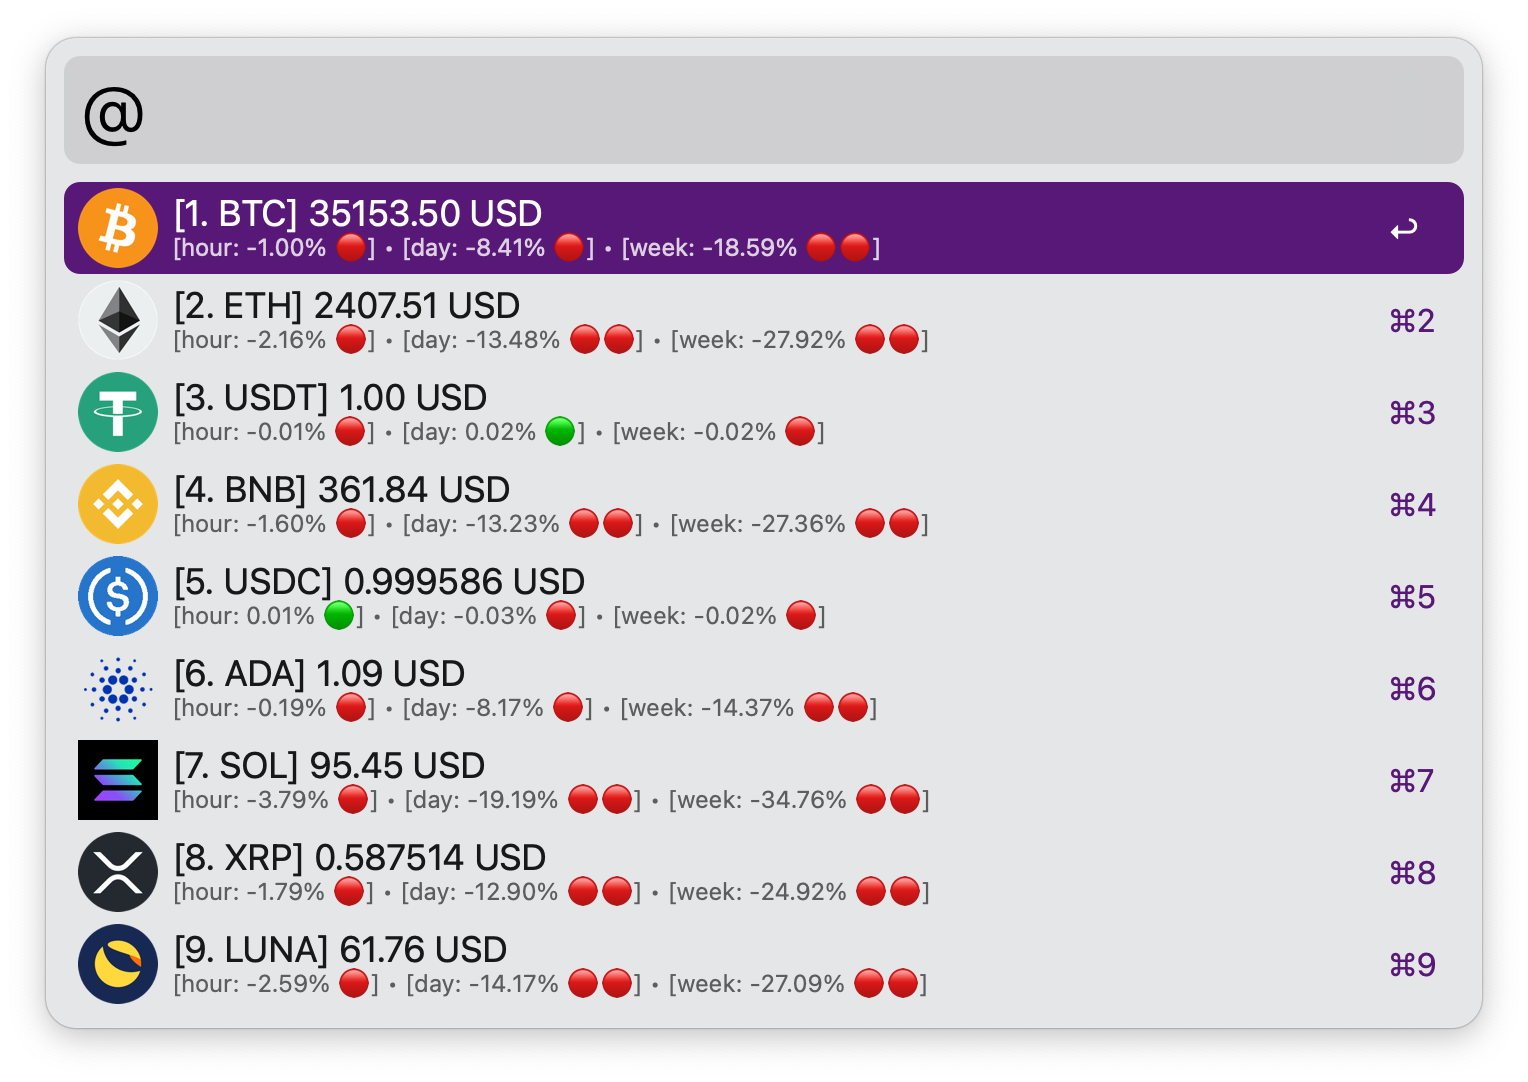
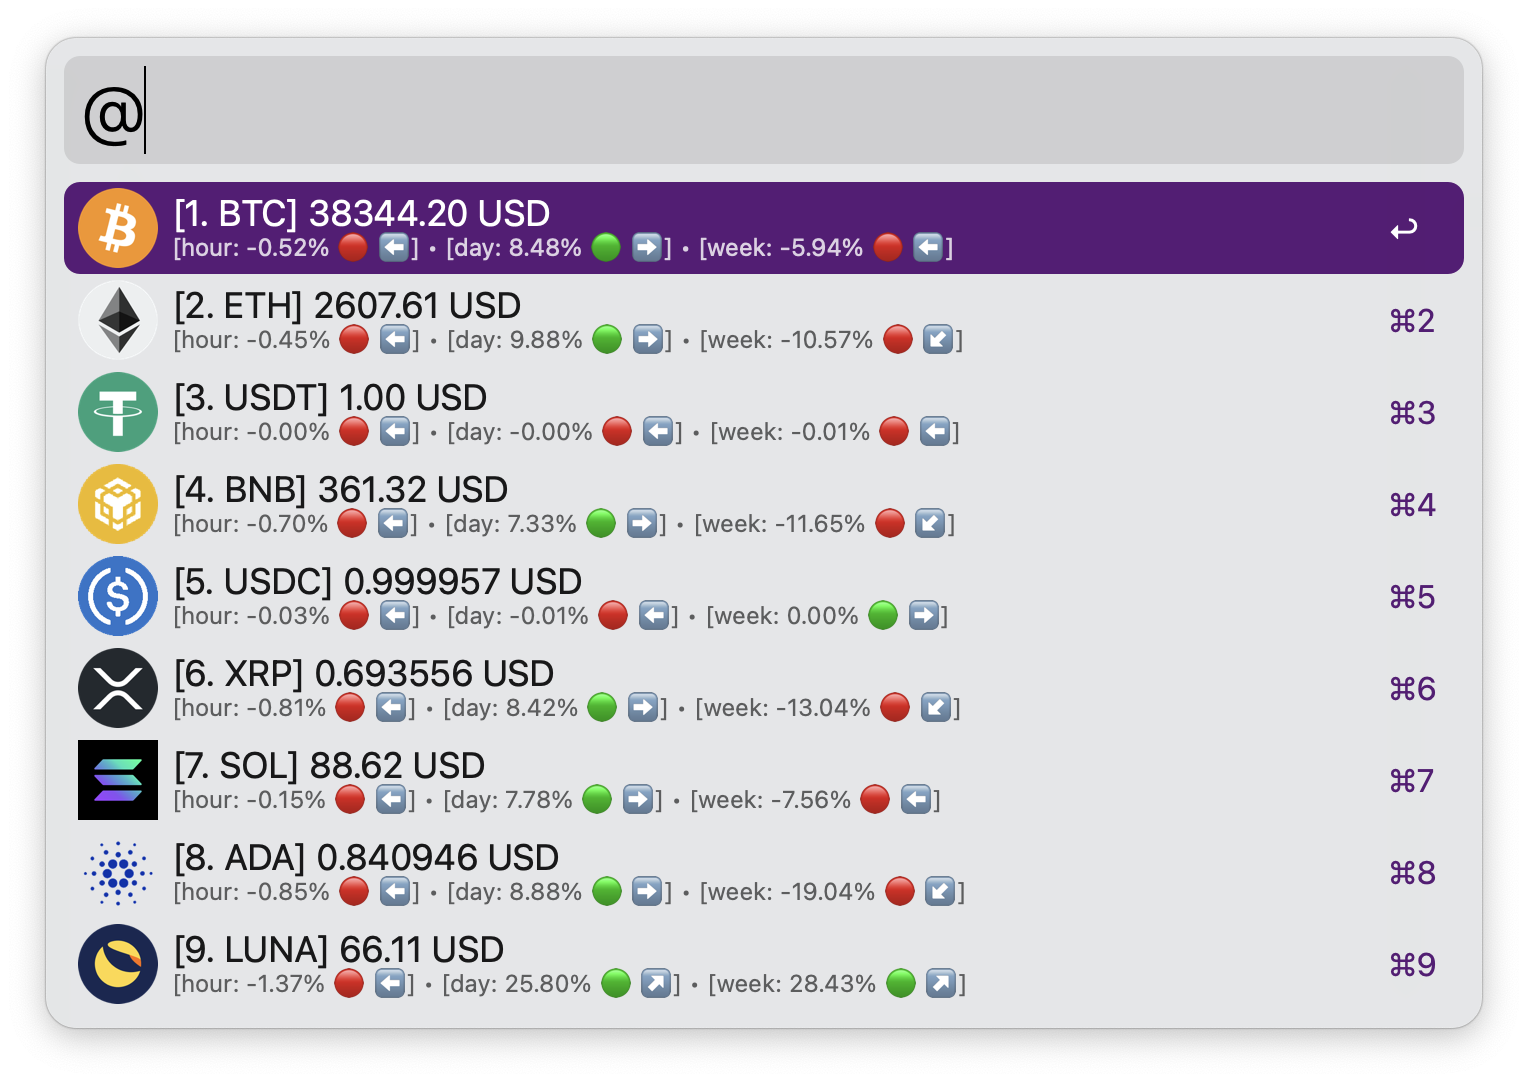
Update emojis

diff --git a/formatters.py b/formatters.py
@@ -2,17 +2,17 @@
 
 def percent(value):
     if value > 50:
-        arrows = u"🟢🟢🟢"
+        arrows = u"🟢 ⬆"
     elif value > 10:
-        arrows = u"🟢🟢"
+        arrows = u"🟢 ↗"
     elif value > 0:
-        arrows = u"🟢"
+        arrows = u"🟢 ➡"
     elif value < -50:
-        arrows = u"🔴🔴🔴"
+        arrows = u"🔴 ⬇"
     elif value < -10:
-        arrows = u"🔴🔴"
+        arrows = u"🔴 ↙"
     else:
-        arrows = u"🔴"
+        arrows = u"🔴 ⬅"
 
     return u"{value:0.2f}% {arrows}".format(value=value, arrows=arrows)
 
